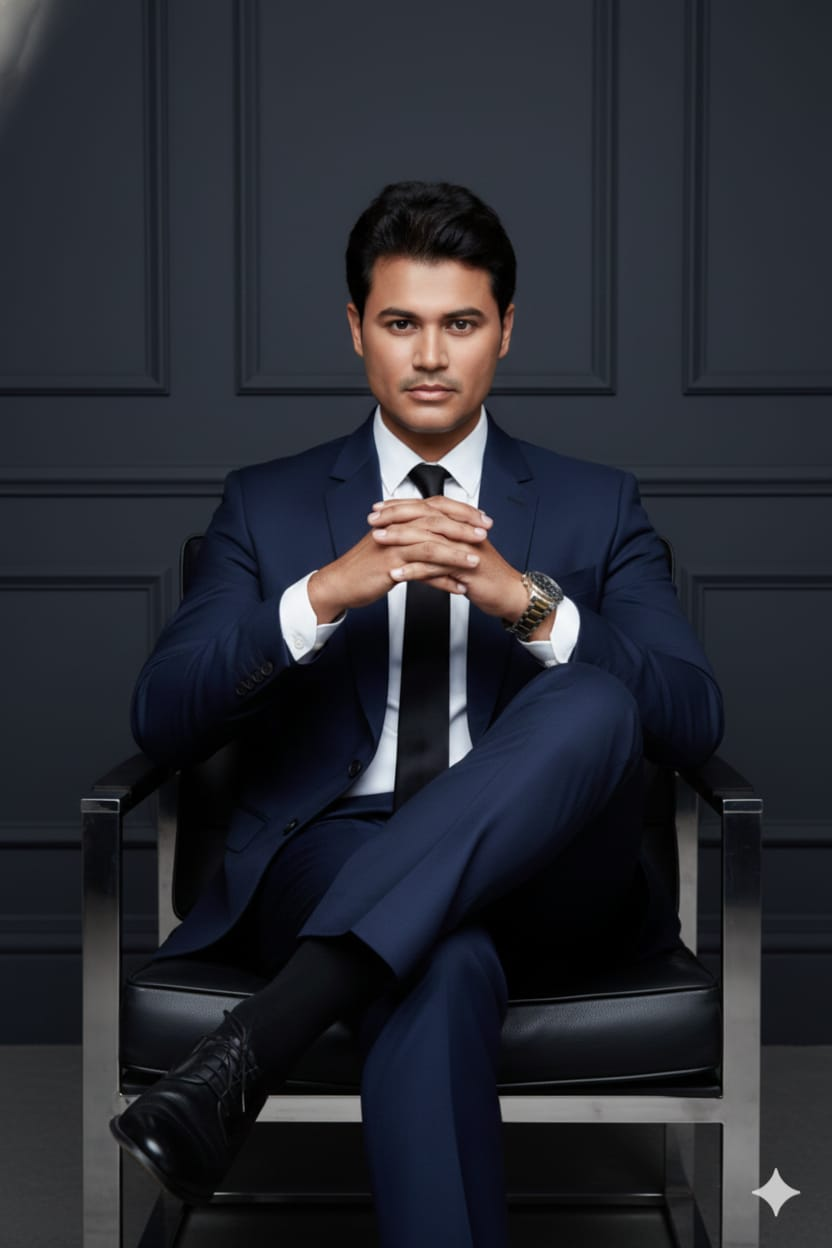
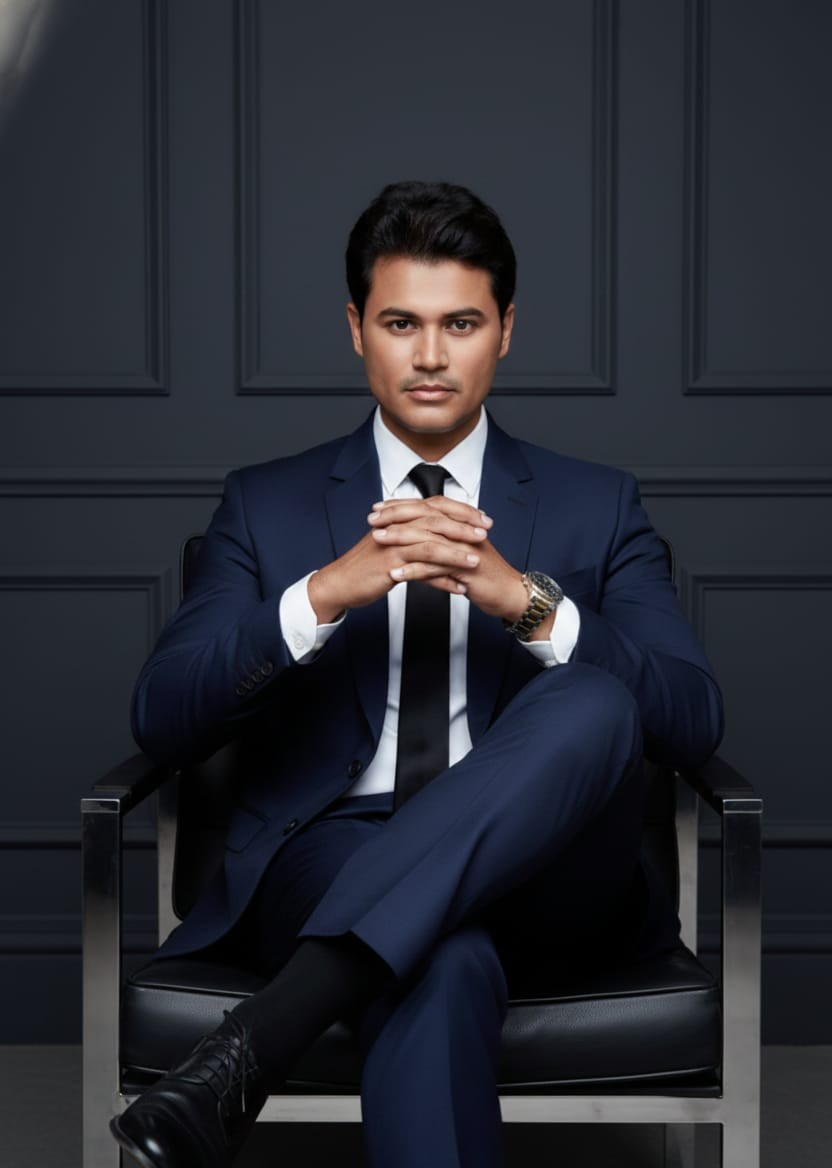
intro imaged updated

diff --git a/frontend/src/App.js b/frontend/src/App.js
@@ -5,6 +5,10 @@ import seminar1 from "../src/asset/main3e.png";
 import img1 from "../src/asset/img1.png";
 import img2 from "../src/asset/img2.png";
 import img3 from "../src/asset/img3.jpg";
+import img4 from "../src/asset/img4.jpeg";
+import img5 from "../src/asset/img5.JPG";
+import img6 from "../src/asset/img6.JPG";
+import intro from "../src/asset/introduction.jpg";
 import personal1 from "../src/asset/personal2.jpeg";
 import { motion, AnimatePresence } from 'framer-motion';
 
@@ -61,7 +65,7 @@ function App() {
           <div>
             <img
               className="rounded-lg shadow-md h-96 md:h-72 mx-auto"
-              src={personal1}
+              src={intro}
               alt="logo"
             />
           </div>
@@ -89,7 +93,7 @@ function App() {
 
               <p className="mx-2 my-2 text-black text-sm md:text-md font-montserrat leading-relaxed">
                 His work is not designed to simply improve lives, but to
-                re-engineer the entire architecture of one’s existence.
+                re-engineer the entire architecture of one’s existence. <button className="text-blue-500 hover:border-b hover:border-blue-300">Read more</button>
               </p>
             </div>
           </div>
@@ -128,21 +132,21 @@ function App() {
             {/* Image 4 */}
             <div className="rounded-lg overflow-hidden shadow-lg hover:scale-105 hover:shadow-2xl transition-all duration-300 cursor-pointer bg-gray-800">
               <div className="h-56 bg-gray-700 flex items-center justify-center text-white text-xl font-montserrat">
-                img4
+                <img src={img4} alt="img4" />
               </div>
             </div>
 
             {/* Image 5 */}
             <div className="rounded-lg overflow-hidden shadow-lg hover:scale-105 hover:shadow-2xl transition-all duration-300 cursor-pointer bg-gray-800">
               <div className="h-56 bg-gray-700 flex items-center justify-center text-white text-xl font-montserrat">
-                img5
+                <img src={img5} alt="img5" />
               </div>
             </div>
 
             {/* Image 6 */}
             <div className="rounded-lg overflow-hidden shadow-lg hover:scale-105 hover:shadow-2xl transition-all duration-300 cursor-pointer bg-gray-800">
               <div className="h-56 bg-gray-700 flex items-center justify-center text-white text-xl font-montserrat">
-                img6
+                <img src={img6} alt="img6" />
               </div>
             </div>
           </div>
